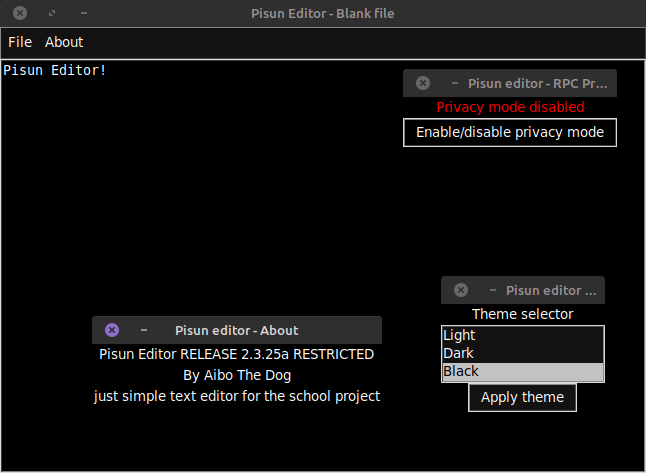
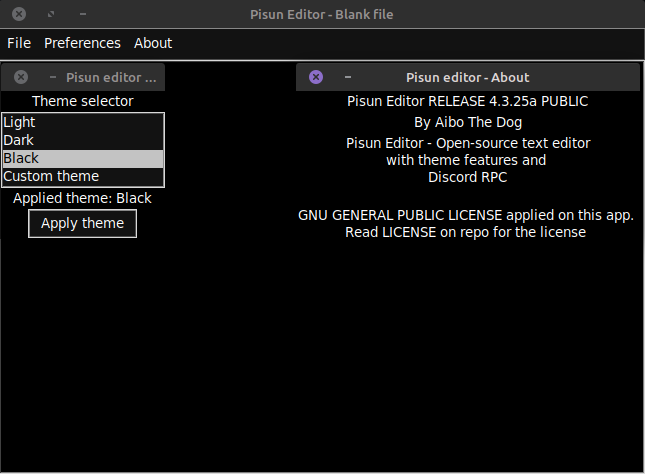
Updated app UI, added 2 features Save and exit and Save

diff --git a/README.md b/README.md
@@ -1,4 +1,5 @@
 # Pisun Editor
+Latest: RELEASE 4.3.25a PUBLIC
 Open-source text editor with theme features and Discord RPC
 
 Report any bugs at "Issues"
@@ -12,7 +13,7 @@ Screenshots:
 
 
 ### How to create themes?
-By using new feature "Custom themes" we can create own themes
+By using new feature "Custom themes" in preferences we can create own themes
 ##### Theme example:
 ```
 <Name of theme>
